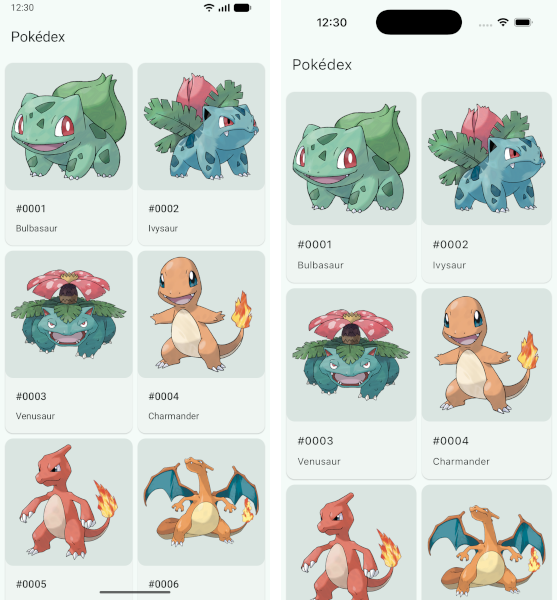
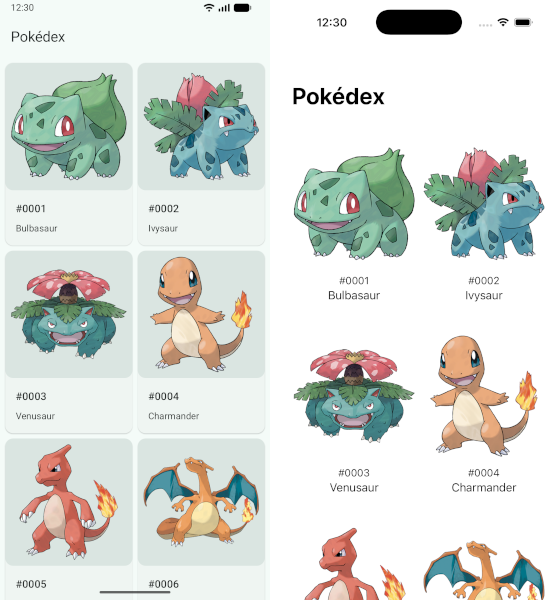
Update iOS app with native UI

diff --git a/pokedex/feature/pokemon/src/commonMain/kotlin/com/kfaraj/samples/pokedex/feature/pokemon/PokemonListViewModel.kt b/pokedex/feature/pokemon/src/commonMain/kotlin/com/kfaraj/samples/pokedex/feature/pokemon/PokemonListViewModel.kt
@@ -1,30 +1,38 @@
 package com.kfaraj.samples.pokedex.feature.pokemon
 
-import androidx.lifecycle.ViewModel
-import androidx.lifecycle.viewModelScope
+import androidx.paging.ItemSnapshotList
 import androidx.paging.Pager
 import androidx.paging.PagingConfig
 import androidx.paging.PagingData
+import androidx.paging.PagingDataEvent
+import androidx.paging.PagingDataPresenter
 import androidx.paging.cachedIn
 import androidx.paging.map
 import com.kfaraj.samples.pokedex.data.pokemon.Pokemon
 import com.kfaraj.samples.pokedex.data.pokemon.PokemonRepository
+import com.rickclephas.kmp.observableviewmodel.MutableStateFlow
+import com.rickclephas.kmp.observableviewmodel.ViewModel
+import com.rickclephas.kmp.observableviewmodel.coroutineScope
 import kotlinx.coroutines.flow.Flow
+import kotlinx.coroutines.flow.StateFlow
+import kotlinx.coroutines.flow.asStateFlow
+import kotlinx.coroutines.flow.collectLatest
 import kotlinx.coroutines.flow.map
+import kotlinx.coroutines.launch
 import org.koin.core.annotation.KoinViewModel
 
 /**
  * Exposes the Pokémon list UI state.
  */
 @KoinViewModel
-internal class PokemonListViewModel(
+public class PokemonListViewModel internal constructor(
     pokemonRepository: PokemonRepository
 ) : ViewModel() {
 
     /**
      * The stream of paged Pokémon list items UI states.
      */
-    val pagingData: Flow<PagingData<PokemonListItemUiState>> =
+    public val pagingData: Flow<PagingData<PokemonListItemUiState>> =
         Pager(
             PagingConfig(PAGE_SIZE),
             null,
@@ -37,7 +45,45 @@ internal class PokemonListViewModel(
                     pokemon.toPokemonListItemUiState()
                 }
             }
-            .cachedIn(viewModelScope)
+            .cachedIn(viewModelScope.coroutineScope)
+
+    private val pagingDataPresenter = object : PagingDataPresenter<PokemonListItemUiState>() {
+        override suspend fun presentPagingDataEvent(
+            event: PagingDataEvent<PokemonListItemUiState>
+        ) {
+            updateSnapshot()
+        }
+    }
+
+    private val _pagingDataSnapshot = MutableStateFlow(
+        viewModelScope,
+        pagingDataPresenter.snapshot()
+    )
+
+    /**
+     * The stream of paged Pokémon list items UI states.
+     */
+    public val pagingDataSnapshot: StateFlow<ItemSnapshotList<PokemonListItemUiState>> =
+        _pagingDataSnapshot.asStateFlow()
+
+    init {
+        viewModelScope.coroutineScope.launch {
+            pagingData.collectLatest {
+                pagingDataPresenter.collectFrom(it)
+            }
+        }
+    }
+
+    private fun updateSnapshot() {
+        _pagingDataSnapshot.value = pagingDataPresenter.snapshot()
+    }
+
+    /**
+     * Returns the item at [index].
+     */
+    public fun getItem(index: Int): PokemonListItemUiState? {
+        return pagingDataPresenter[index]
+    }
 
     /**
      * Converts the model from the data layer to the UI layer.
@@ -50,7 +96,7 @@ internal class PokemonListViewModel(
         )
     }
 
-    companion object {
+    public companion object {
         private const val PAGE_SIZE = 50
     }
 

diff --git a/pokedex/feature/pokemon/src/commonMain/kotlin/com/kfaraj/samples/pokedex/feature/pokemon/PokemonDetailViewModel.kt b/pokedex/feature/pokemon/src/commonMain/kotlin/com/kfaraj/samples/pokedex/feature/pokemon/PokemonDetailViewModel.kt
@@ -1,12 +1,11 @@
 package com.kfaraj.samples.pokedex.feature.pokemon
 
-import androidx.lifecycle.ViewModel
-import androidx.lifecycle.viewModelScope
 import com.kfaraj.samples.pokedex.data.pokemon.Pokemon
 import com.kfaraj.samples.pokedex.data.pokemon.PokemonRepository
-import kotlinx.coroutines.flow.MutableStateFlow
+import com.rickclephas.kmp.observableviewmodel.MutableStateFlow
+import com.rickclephas.kmp.observableviewmodel.ViewModel
+import com.rickclephas.kmp.observableviewmodel.launch
 import kotlinx.coroutines.flow.StateFlow
-import kotlinx.coroutines.launch
 import org.koin.core.annotation.InjectedParam
 import org.koin.core.annotation.KoinViewModel
 
@@ -14,7 +13,7 @@ import org.koin.core.annotation.KoinViewModel
  * Exposes the Pokémon detail UI state.
  */
 @KoinViewModel
-internal class PokemonDetailViewModel(
+public class PokemonDetailViewModel internal constructor(
     @InjectedParam key: PokemonDetailKey,
     pokemonRepository: PokemonRepository
 ) : ViewModel() {
@@ -22,8 +21,8 @@ internal class PokemonDetailViewModel(
     /**
      * The stream of Pokémon detail UI state.
      */
-    val uiState: StateFlow<PokemonDetailUiState>
-        field = MutableStateFlow(PokemonDetailUiState())
+    public val uiState: StateFlow<PokemonDetailUiState>
+        field = MutableStateFlow(viewModelScope, PokemonDetailUiState())
 
     init {
         viewModelScope.launch {

diff --git a/pokedex/iosApp/Pokedex/PokemonDetailView.swift b/pokedex/iosApp/Pokedex/PokemonDetailView.swift
@@ -1,0 +1,39 @@
+import KMPObservableViewModelSwiftUI
+import Shared
+import SwiftUI
+
+struct PokemonDetailView: View {
+    @StateViewModel var viewModel: PokemonDetailViewModel
+
+    var body: some View {
+        PokemonDetailViewSnapshot(uiState: viewModel.uiStateValue)
+    }
+}
+
+struct PokemonDetailViewSnapshot: View {
+    let uiState: PokemonDetailUiState
+
+    var body: some View {
+        ScrollView {
+            VStack {
+                AsyncImage(url: URL(string: uiState.sprite ?? "")) { phase in
+                    phase.image?.resizable()
+                }
+                .frame(width: 194, height: 194)
+                Text(uiState.id.map { String(format: "#%04d", $0.intValue) } ?? "")
+                    .font(.subheadline)
+                Text(uiState.name ?? "")
+                    .font(.body)
+            }
+        }
+    }
+}
+
+#Preview {
+    let uiState = PokemonDetailUiState(
+        id: 1,
+        name: "Bulbasaur",
+        sprite: "https://raw.githubusercontent.com/PokeAPI/sprites/master/sprites/pokemon/other/official-artwork/1.png"
+    )
+    PokemonDetailViewSnapshot(uiState: uiState)
+}

diff --git a/pokedex/iosApp/Pokedex/PokemonListItemView.swift b/pokedex/iosApp/Pokedex/PokemonListItemView.swift
@@ -1,0 +1,29 @@
+import KMPObservableViewModelSwiftUI
+import Shared
+import SwiftUI
+
+struct PokemonListItemView: View {
+    let uiState: PokemonListItemUiState?
+
+    var body: some View {
+        VStack {
+            AsyncImage(url: URL(string: uiState?.sprite ?? "")) { phase in
+                phase.image?.resizable()
+            }
+            .frame(width: 194, height: 194)
+            Text((uiState?.id).map { String(format: "#%04d", $0) } ?? "")
+                .font(.subheadline)
+            Text(uiState?.name ?? "")
+                .font(.body)
+        }
+    }
+}
+
+#Preview {
+    let uiState = PokemonListItemUiState(
+        id: 1,
+        name: "Bulbasaur",
+        sprite: "https://raw.githubusercontent.com/PokeAPI/sprites/master/sprites/pokemon/other/official-artwork/1.png"
+    )
+    PokemonListItemView(uiState: uiState)
+}

diff --git a/pokedex/iosApp/Pokedex/PokemonListView.swift b/pokedex/iosApp/Pokedex/PokemonListView.swift
@@ -1,0 +1,24 @@
+import KMPObservableViewModelSwiftUI
+import Shared
+import SwiftUI
+
+struct PokemonListView: View {
+    @StateViewModel var viewModel: PokemonListViewModel
+    let onItemClick: (Int?) -> Void
+
+    var body: some View {
+        ScrollView {
+            LazyVGrid(columns: [GridItem(.flexible()), GridItem(.flexible())]) {
+                ForEach(viewModel.pagingDataSnapshotValue.indices, id: \.self) { index in
+                    let item = viewModel.getItem(index: Int32(index))
+                    PokemonListItemView(uiState: item)
+                        .onTapGesture {
+                            onItemClick((item?.id).map { Int($0) })
+                        }
+                        .padding()
+                }
+            }
+            .padding()
+        }
+    }
+}

diff --git a/pokedex/feature/pokemon/src/iosMain/kotlin/com/kfaraj/samples/pokedex/feature/pokemon/PokemonDetailViewModel.ios.kt b/pokedex/feature/pokemon/src/iosMain/kotlin/com/kfaraj/samples/pokedex/feature/pokemon/PokemonDetailViewModel.ios.kt
@@ -1,0 +1,31 @@
+package com.kfaraj.samples.pokedex.feature.pokemon
+
+import androidx.lifecycle.SavedStateHandle
+import org.koin.core.component.KoinComponent
+import org.koin.core.component.get
+import org.koin.core.parameter.parametersOf
+
+/**
+ * Instantiates [PokemonDetailViewModel].
+ */
+public object PokemonDetailViewModelFactory : KoinComponent {
+
+    /**
+     * Creates a new instance of [PokemonDetailViewModel].
+     */
+    public fun create(
+        id: Int
+    ): PokemonDetailViewModel {
+        val key = PokemonDetailKey(id)
+        return get {
+            parametersOf(key)
+        }
+    }
+
+}
+
+/**
+ * The current value of [PokemonDetailViewModel.uiState].
+ */
+public val PokemonDetailViewModel.uiStateValue: PokemonDetailUiState
+    get() = uiState.value

diff --git a/pokedex/iosApp/Pokedex/PokedexApp.swift b/pokedex/iosApp/Pokedex/PokedexApp.swift
@@ -3,14 +3,23 @@ import SwiftUI
 
 @main
 struct PokedexApp: App {
+    @State private var selectedId: Int?
+
     init() {
         MainApplication.shared.startKoin()
     }
 
     var body: some Scene {
         WindowGroup {
-            ContentView(title: "Pokédex")
-                .ignoresSafeArea()
+            NavigationStack {
+                PokemonListView(viewModel: PokemonListViewModelFactory.shared.create()) { itemId in
+                    selectedId = itemId
+                }
+                .navigationTitle("Pokédex")
+                .navigationDestination(item: $selectedId) { id in
+                    PokemonDetailView(viewModel: PokemonDetailViewModelFactory.shared.create(id: Int32(id)))
+                }
+            }
         }
     }
 }

diff --git a/pokedex/feature/pokemon/src/iosMain/kotlin/com/kfaraj/samples/pokedex/feature/pokemon/PokemonListViewModel.ios.kt b/pokedex/feature/pokemon/src/iosMain/kotlin/com/kfaraj/samples/pokedex/feature/pokemon/PokemonListViewModel.ios.kt
@@ -1,0 +1,26 @@
+package com.kfaraj.samples.pokedex.feature.pokemon
+
+import androidx.paging.ItemSnapshotList
+import org.koin.core.component.KoinComponent
+import org.koin.core.component.get
+
+/**
+ * Instantiates [PokemonListViewModel].
+ */
+public object PokemonListViewModelFactory : KoinComponent {
+
+    /**
+     * Creates a new instance of [PokemonListViewModel].
+     */
+    public fun create(
+    ): PokemonListViewModel {
+        return get()
+    }
+
+}
+
+/**
+ * The current value of [PokemonListViewModel.pagingDataSnapshot].
+ */
+public val PokemonListViewModel.pagingDataSnapshotValue: ItemSnapshotList<PokemonListItemUiState>
+    get() = pagingDataSnapshot.value

diff --git a/pokedex/feature/pokemon/src/commonMain/kotlin/com/kfaraj/samples/pokedex/feature/pokemon/PokemonDetailUiState.kt b/pokedex/feature/pokemon/src/commonMain/kotlin/com/kfaraj/samples/pokedex/feature/pokemon/PokemonDetailUiState.kt
@@ -3,7 +3,7 @@ package com.kfaraj.samples.pokedex.feature.pokemon
 /**
  * Contains the Pokémon detail UI state.
  */
-internal data class PokemonDetailUiState(
+public data class PokemonDetailUiState(
     val id: Int? = null,
     val name: String? = null,
     val sprite: String? = null

diff --git a/pokedex/feature/pokemon/src/commonMain/kotlin/com/kfaraj/samples/pokedex/feature/pokemon/PokemonListItemUiState.kt b/pokedex/feature/pokemon/src/commonMain/kotlin/com/kfaraj/samples/pokedex/feature/pokemon/PokemonListItemUiState.kt
@@ -3,7 +3,7 @@ package com.kfaraj.samples.pokedex.feature.pokemon
 /**
  * Contains the Pokémon list item UI state.
  */
-internal data class PokemonListItemUiState(
+public data class PokemonListItemUiState(
     val id: Int,
     val name: String,
     val sprite: String

diff --git a/pokedex/iosApp/Pokedex/KMPObservableViewModel.swift b/pokedex/iosApp/Pokedex/KMPObservableViewModel.swift
@@ -1,0 +1,5 @@
+import Combine
+import KMPObservableViewModelCore
+import Shared
+
+extension Kmp_observableviewmodel_coreViewModel: @retroactive ViewModel { }
